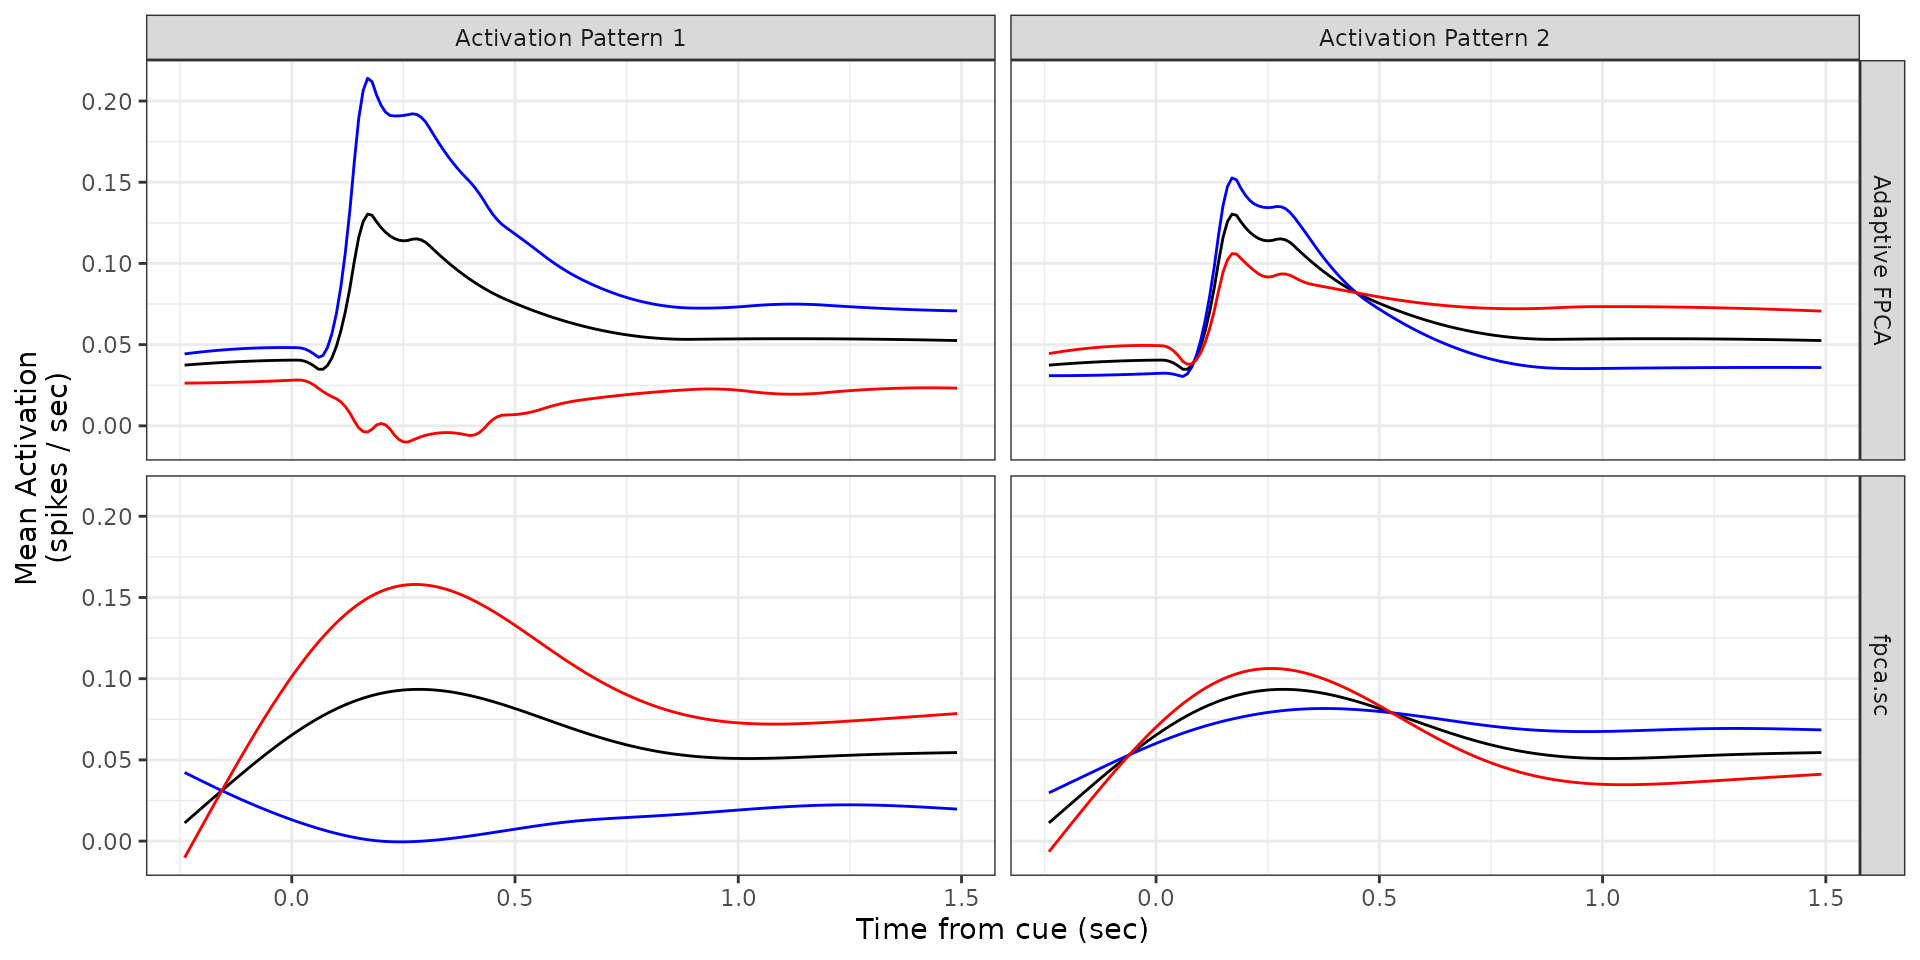
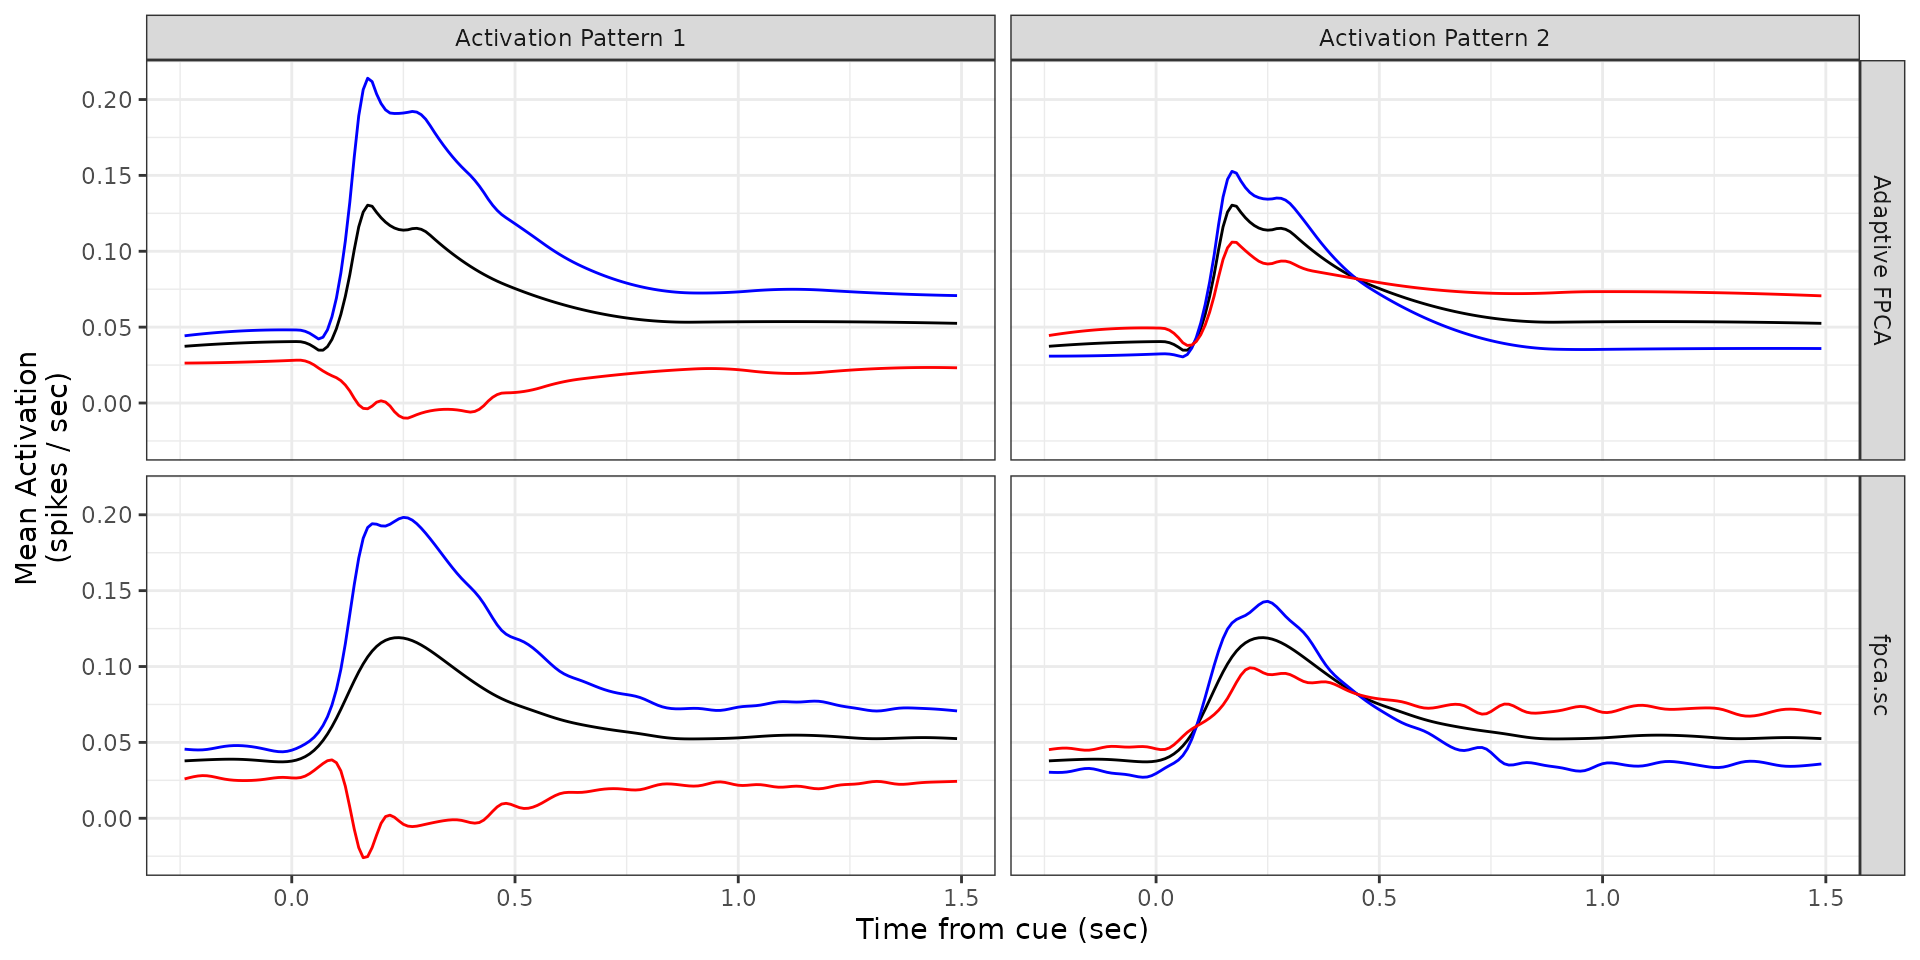
Deploying to gh-pages from @ angelgar/afpca@2d8671627d0310908435327722d754d824a6f106 🚀

diff --git a/articles/reproducibility_real_data.html b/articles/reproducibility_real_data.html
@@ -146,7 +146,7 @@ reflects increased post-cue activation.</p>
 <span><span class="va">Fit.Adaptive.FPCA</span><span class="op">$</span><span class="va">scores</span> <span class="op">&lt;-</span> <span class="va">Fit.Adaptive.FPCA</span><span class="op">$</span><span class="va">scores</span> <span class="op">*</span> <span class="op">-</span><span class="fl">1</span></span>
 <span></span>
 <span><span class="co"># Standard FPCA</span></span>
-<span><span class="va">Fit.sc</span> <span class="op">&lt;-</span> <span class="fu"><a href="https://rdrr.io/pkg/refund/man/fpca.sc.html" class="external-link">fpca.sc</a></span><span class="op">(</span>Y <span class="op">=</span> <span class="va">Y.data</span>, nbasis <span class="op">=</span> <span class="fl">5</span><span class="op">)</span></span>
+<span><span class="va">Fit.sc</span> <span class="op">&lt;-</span> <span class="fu"><a href="https://rdrr.io/pkg/refund/man/fpca.sc.html" class="external-link">fpca.sc</a></span><span class="op">(</span>Y <span class="op">=</span> <span class="va">Y.data</span>, nbasis <span class="op">=</span> <span class="fl">40</span><span class="op">)</span></span>
 <span><span class="va">Fit.sc</span><span class="op">$</span><span class="va">efunctions</span> <span class="op">&lt;-</span> <span class="va">Fit.sc</span><span class="op">$</span><span class="va">efunctions</span> <span class="op">*</span> <span class="op">-</span><span class="fl">1</span></span>
 <span><span class="va">Fit.sc</span><span class="op">$</span><span class="va">scores</span>     <span class="op">&lt;-</span> <span class="va">Fit.sc</span><span class="op">$</span><span class="va">scores</span>     <span class="op">*</span> <span class="op">-</span><span class="fl">1</span></span></code></pre></div>
 </div>
@@ -232,15 +232,6 @@ representative neurons under each model.</p>
 <span></span>
 <span><span class="va">figure4_panelB</span></span></code></pre></div>
 <p><img src="reproducibility_real_data_files/figure-html/panel-B-1.png" class="r-plt" alt="" width="100%" style="display: block; margin: auto;"></p>
-</div>
-<div class="section level3">
-<h3 id="combined-figure-4">Combined Figure 4<a class="anchor" aria-label="anchor" href="#combined-figure-4"></a>
-</h3>
-<div class="sourceCode" id="cb6"><pre class="downlit sourceCode r">
-<code class="sourceCode R"><span><span class="va">figure4_panelA</span> <span class="op">+</span> <span class="va">figure4_panelB</span> <span class="op">+</span></span>
-<span>  <span class="fu"><a href="https://patchwork.data-imaginist.com/reference/plot_layout.html" class="external-link">plot_layout</a></span><span class="op">(</span>widths <span class="op">=</span> <span class="fu"><a href="https://rdrr.io/r/base/c.html" class="external-link">c</a></span><span class="op">(</span><span class="fl">2</span>, <span class="fl">4</span><span class="op">)</span><span class="op">)</span> <span class="op">&amp;</span></span>
-<span>  <span class="fu"><a href="https://ggplot2.tidyverse.org/reference/theme.html" class="external-link">theme</a></span><span class="op">(</span>text <span class="op">=</span> <span class="fu"><a href="https://ggplot2.tidyverse.org/reference/element.html" class="external-link">element_text</a></span><span class="op">(</span>size <span class="op">=</span> <span class="fl">11</span><span class="op">)</span><span class="op">)</span></span></code></pre></div>
-<p><img src="reproducibility_real_data_files/figure-html/figure4-1.png" class="r-plt" alt="" width="100%" style="display: block; margin: auto;"></p>
 </div>
 </div>
   </main><aside class="col-md-3"><nav id="toc" aria-label="Table of contents"><h2>On this page</h2>

diff --git a/articles/reproducibility_real_data.md b/articles/reproducibility_real_data.md
@@ -81,7 +81,7 @@ Fit.Adaptive.FPCA$fpcs   <- Fit.Adaptive.FPCA$fpcs   * -1
 Fit.Adaptive.FPCA$scores <- Fit.Adaptive.FPCA$scores * -1
 
 # Standard FPCA
-Fit.sc <- fpca.sc(Y = Y.data, nbasis = 5)
+Fit.sc <- fpca.sc(Y = Y.data, nbasis = 40)
 Fit.sc$efunctions <- Fit.sc$efunctions * -1
 Fit.sc$scores     <- Fit.sc$scores     * -1
 ```
@@ -174,14 +174,3 @@ figure4_panelB
 ```
 
 ![](reproducibility_real_data_files/figure-html/panel-B-1.png)
-
-### Combined Figure 4
-
-``` r
-
-figure4_panelA + figure4_panelB +
-  plot_layout(widths = c(2, 4)) &
-  theme(text = element_text(size = 11))
-```
-
-![](reproducibility_real_data_files/figure-html/figure4-1.png)
